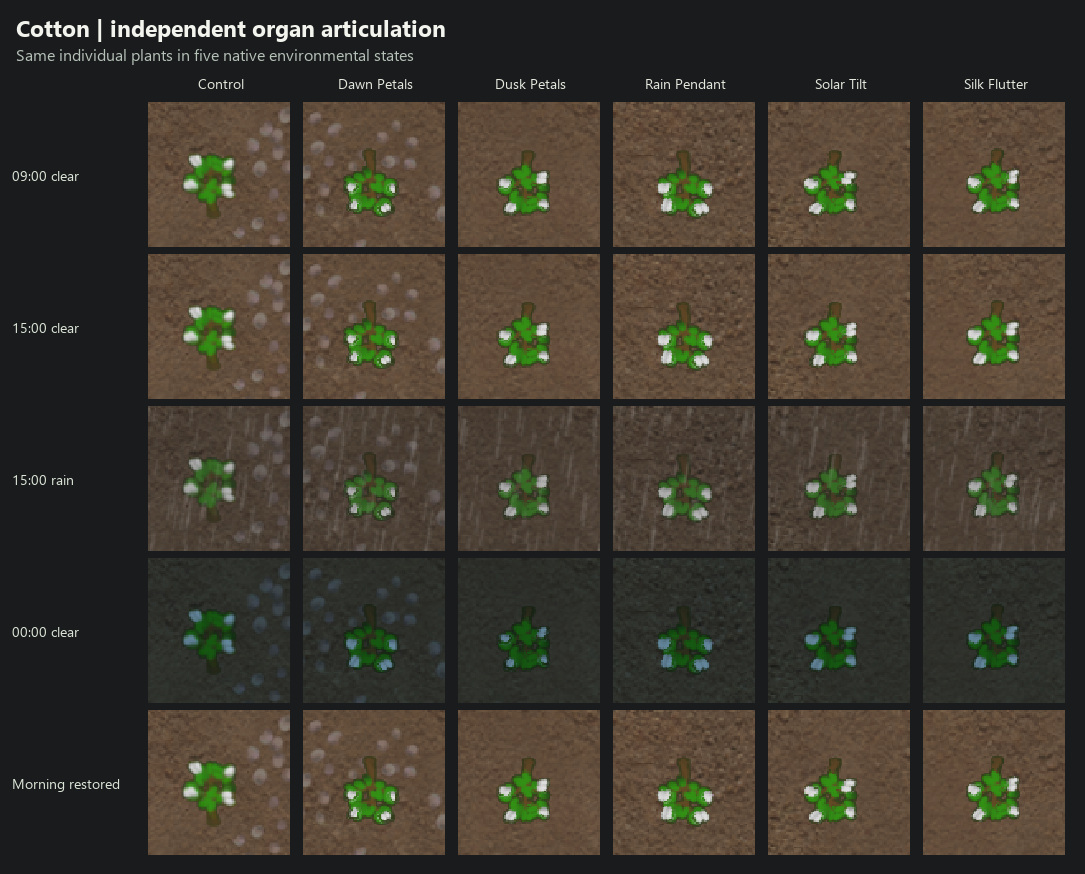
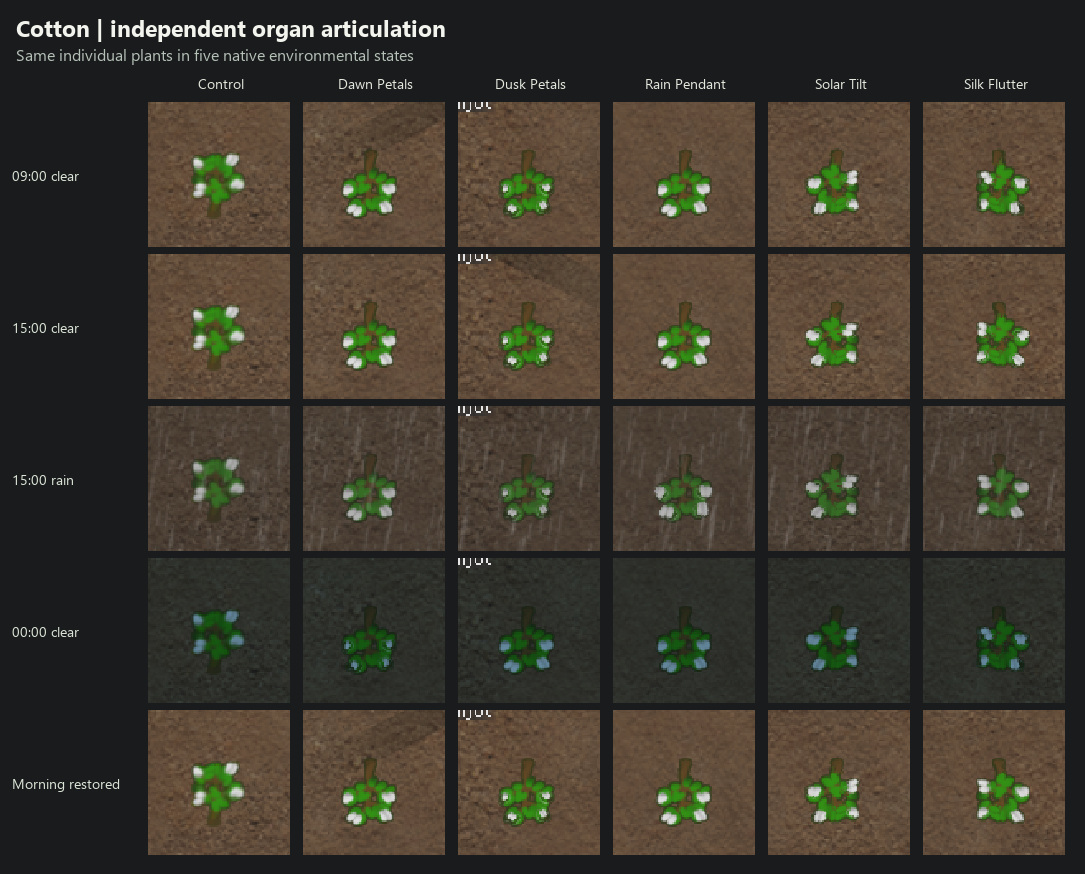
Publish corrected organ atlas garden and nine-frame GPU parity

diff --git a/README.md b/README.md
@@ -1,10 +1,8 @@
-> **Superseded diagnostic gallery:** a follow-up native GPU swatch test found that the original shader reverses the outer atlas rows. The images below are authentic captures but do not demonstrate correct phase-to-pose mapping. See [failed parity evidence](gpu-parity-before-fix.tsv) (run a0e0a175ebf14d5aa7771a58e5fecbfb, source b03730c).
-
 # Horticulture - independent reproductive organ articulation
 
 Actual RimWorld 1.7.5014 rev1195, AllPerformance run
-1bb38459f3304e15b01a701d5662af94, source
-[d3bad623ad42645ba0544ef55439d6f00519db82](https://github.com/lanwoodall423/Horticulture---Novel-Seeds/commit/d3bad623ad42645ba0544ef55439d6f00519db82).
+a329212d9dca4a179f09b8fc81c90c4e, source
+[bbf4da99caa352b7542589e9ee2bd5dd632e1a9d](https://github.com/lanwoodall423/Horticulture---Novel-Seeds/commit/bbf4da99caa352b7542589e9ee2bd5dd632e1a9d).
 
 ![Native garden overview](articulation-gallery.jpg)
 
@@ -25,16 +23,15 @@ materials, 30 prepared nine-frame atlases, six original source variations.
 Native wind manager phase advanced and selected different local organ frames.
 All 30 atlases retained the original source alpha footprint and at least one
 exact source frame. No new geometry, manual masks, or GPU phenotype masks.
-Both builds clean; all prior and 20 new rules passed.
-All preservation and cleanup checks passed. No relevant HNS errors in log.
+Initial ordinary and fixture builds clean; all prior and 20 new rules passed.
+All preservation and cleanup checks passed.
 
 The atlas uses approximate pigment-based reproductive components and local
 foliage reconstruction; source alpha retention can leave reconstructed
 foliage silhouettes where a contracted organ was. The effects are subtle
 at normal zoom; original source variants and wind motion complicate direct
 comparisons with controls. Midnight/rain further reduce visibility.
-This run verified material phase and actual scene rendering, not direct
-GPU frame-index swatch parity or smooth natural motion. It is not an
+This run verified material phase, actual scene rendering, and all nine GPU frame indices; smooth natural motion remains unqualified. It is not an
 art-direction approval or production release. No plant pixels retouched;
 the labeled crops are enlarged from the original captures.
 
@@ -47,3 +44,10 @@ Reproduce with the game closed:
 ```powershell
 powershell.exe -NoProfile -ExecutionPolicy Bypass -File DevTools/Run-NativeQuicktest.ps1 -Loadout AllPerformance -ArticulationGarden
 ```
+## GPU orientation regression
+
+The initial native garden passed material checks, but the follow-up swatch probe
+(run a0e0a175ebf14d5aa7771a58e5fecbfb) found outer atlas rows reversed.
+Corrected source bbf4da9 passed all nine swatches with maximum normalized RGB
+error 0.0018627644, then passed all eight garden stages again.
+[Before fix](gpu-parity-before-fix.tsv) | [After fix](gpu-parity-corrected.tsv).
